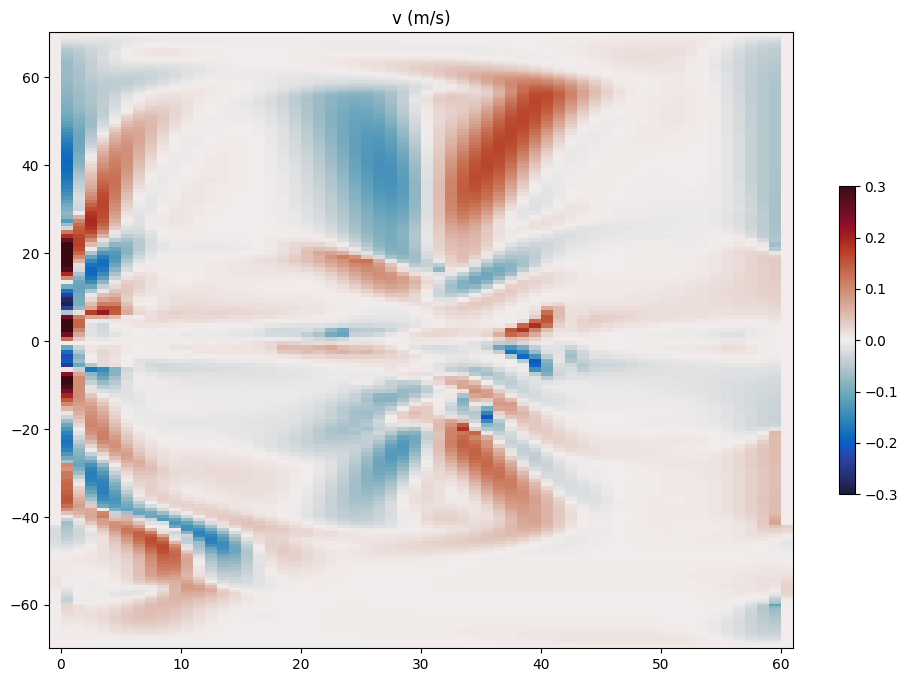
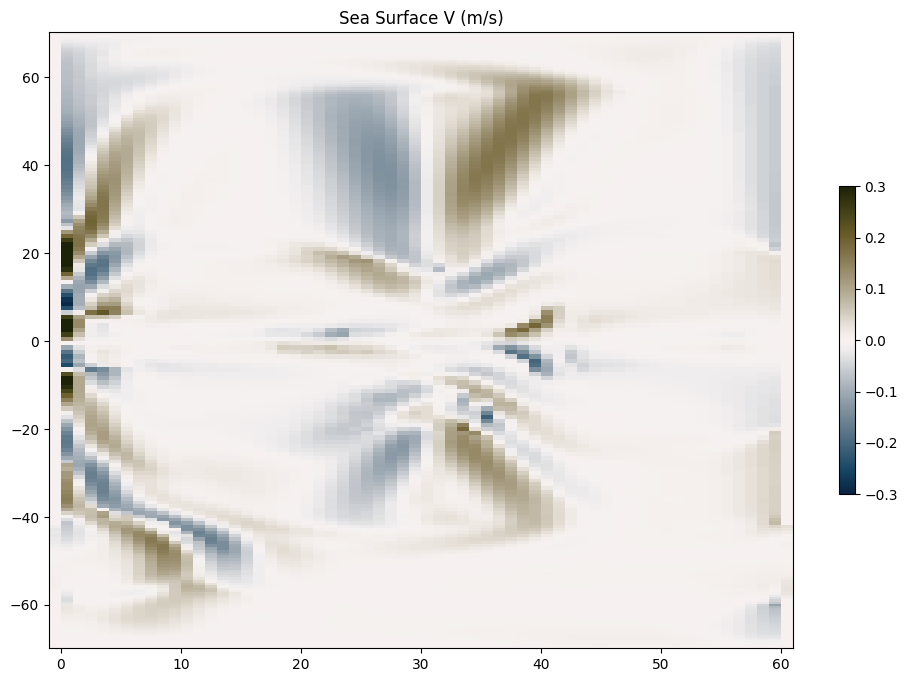
upgrade color maps

diff --git a/DINO.GZ21/POST-PROCESS/plots_res.py b/DINO.GZ21/POST-PROCESS/plots_res.py
@@ -60,15 +60,15 @@ if __name__=="__main__":
     # snapshots
     # ---------
     # kinetic energy
-    infos = [ 'KE (cm2/s2)' , cmocean.cm.amp , colors.LogNorm(vmin=1.0e-3, vmax=1.0e5), lambda x: x*1000 ]
+    infos = [ 'KE (m2/s2)' , cmocean.cm.haline , colors.Normalize(vmin=0.0, vmax=0.03), lambda x: x ]
     main( filepath='NEVERWORLD.1d_gridTsurf.nc' , var_name='sKE' , infos=infos , freq='1d' )
 
     # usurf
-    infos = [ 'Sea Surface U (m/s)' , cmocean.cm.balance , colors.Normalize(vmin=-0.3, vmax=0.3), lambda x: x ]
+    infos = [ 'Sea Surface U (m/s)' , cmocean.cm.diff , colors.Normalize(vmin=-0.3, vmax=0.3), lambda x: x ]
     main( filepath='NEVERWORLD.1d_gridUsurf.nc' , var_name='sozocrtx' , infos=infos , freq='1d' )
 
     # vsurf
-    infos = [ 'Sea Surface V (m/s)' , cmocean.cm.balance , colors.Normalize(vmin=-0.3, vmax=0.3), lambda x: x ]
+    infos = [ 'Sea Surface V (m/s)' , cmocean.cm.diff , colors.Normalize(vmin=-0.3, vmax=0.3), lambda x: x ]
     main( filepath='NEVERWORLD.1d_gridVsurf.nc' , var_name='somecrty' , infos=infos , freq='1d' )
 
     # uf
@@ -81,15 +81,15 @@ if __name__=="__main__":
 
     # yearly mean
     # kinetic energy
-    infos = [ 'KE (cm2/s2)' , cmocean.cm.amp , colors.LogNorm(vmin=1.0e-3, vmax=1.0e5), lambda x: x*1000 ]
+    infos = [ 'KE (m2/s2)' , cmocean.cm.haline , colors.Normalize(vmin=0.0, vmax=0.05), lambda x: x ]
     main( filepath='NEVERWORLD.1y_gridT.nc' , var_name='ke' , infos=infos , freq='1y' )
 
     # usurf
-    infos = [ 'Sea Surface U (m/s)' , cmocean.cm.balance , colors.Normalize(vmin=-0.3, vmax=0.3), lambda x: x ]
+    infos = [ 'Sea Surface U (m/s)' , cmocean.cm.diff , colors.Normalize(vmin=-0.3, vmax=0.3), lambda x: x ]
     main( filepath='NEVERWORLD.1y_gridU.nc' , var_name='uoce' , infos=infos , freq='1y' )
 
     # vsurf
-    infos = [ 'Sea Surface V (m/s)' , cmocean.cm.balance , colors.Normalize(vmin=-0.3, vmax=0.3), lambda x: x ]
+    infos = [ 'Sea Surface V (m/s)' , cmocean.cm.diff , colors.Normalize(vmin=-0.3, vmax=0.3), lambda x: x ]
     main( filepath='NEVERWORLD.1y_gridV.nc' , var_name='voce' , infos=infos , freq='1y' )
 
     # uf

diff --git a/DINO.GZ21/POST-PROCESS/plots_diff.py b/DINO.GZ21/POST-PROCESS/plots_diff.py
@@ -1,0 +1,67 @@
+import os
+import argparse
+import numpy as np
+import xarray as xr
+import cmocean
+
+import matplotlib.pyplot as plt
+import matplotlib.patches as mpatches
+import matplotlib.colors as colors
+
+
+def make_plot(data,lon,lat,infos,output):
+    # args
+    title, cmap, norm, tfs = infos
+    data = tfs(data)
+    # figure
+    plt.figure(figsize=(12, 8))
+    ax = plt.axes()
+    # color map
+    pcm = ax.pcolormesh(lon, lat, data, cmap=cmap, norm=norm)
+    cbar = plt.colorbar(pcm, ax=ax, orientation='vertical', pad=0.05, shrink=0.5)
+    plt.title(title)
+    # write fig
+    plt.savefig(output, bbox_inches='tight')
+    plt.close()
+
+
+def main(filepath_ref, filepath, var_name, infos, freq):
+
+    # read files
+    try:
+        ds = xr.open_dataset(filepath)
+        ds_ref = xr.open_dataset(filepath_ref)
+    except:
+        return
+
+    # coordinates
+    try:
+        lon = ds.nav_lon.values
+    except:
+        lon = ds.nav_lon_grid_T.values
+    try:
+        lat = ds.nav_lat.values
+    except:
+        lat = ds.nav_lat_grid_T.values
+
+    # get fields
+    ke_ref = getattr(ds_ref,var_name).values[-1]
+    if len(ke_ref.shape) == 3:
+        ke_ref = ke_ref[0,:,:]
+    ke = getattr(ds,var_name).values[-1]
+    if len(ke.shape) == 3:
+        ke = ke[0,:,:]
+    diff_ke = ke - ke_ref
+
+    # plot
+    plotpath = 'NEVERWORLD.GZ21_' + freq + '_diffke.png'
+    make_plot(diff_ke,lon,lat,infos,plotpath)
+
+
+
+if __name__=="__main__":
+
+    # mean kinetic energy anomaly
+    infos = [ 'KE-DINO.GZ21 - KE-DINO (m2/s2)' , cmocean.cm.balance , colors.Normalize(vmin=-0.02, vmax=0.02), lambda x: x ]
+    main( filepath_ref='NEVERWORLD_STD.1y_gridT.nc' , filepath='NEVERWORLD.1y_gridT.nc' , var_name='ke' , infos=infos , freq='1y' )
+
